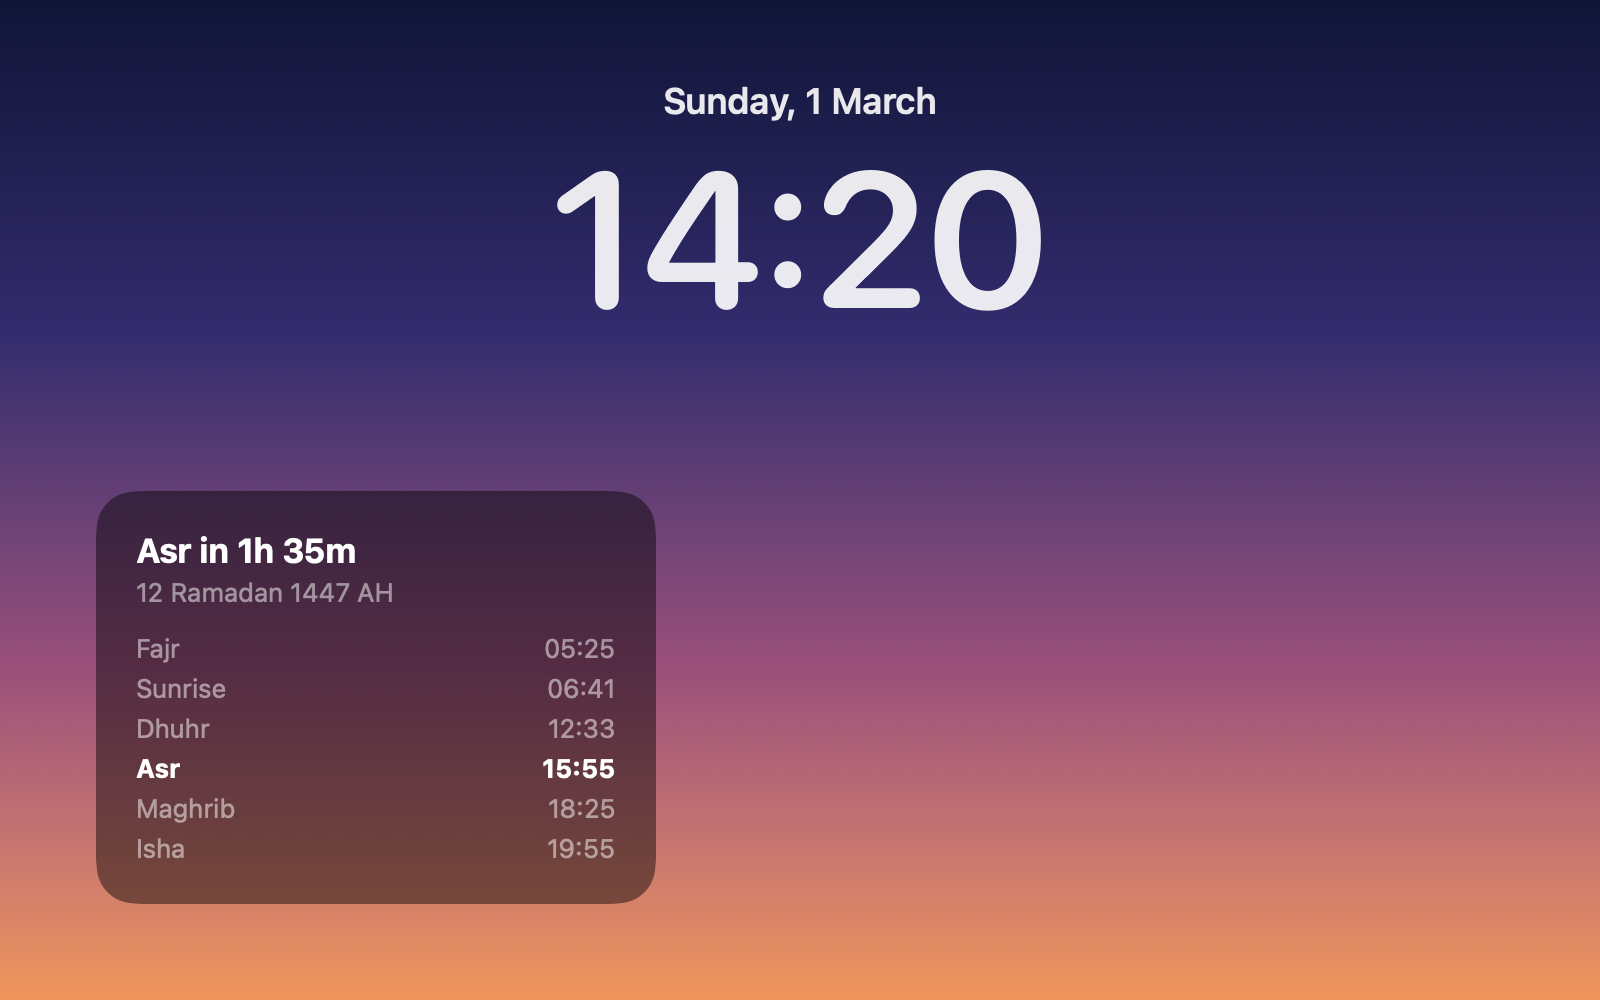
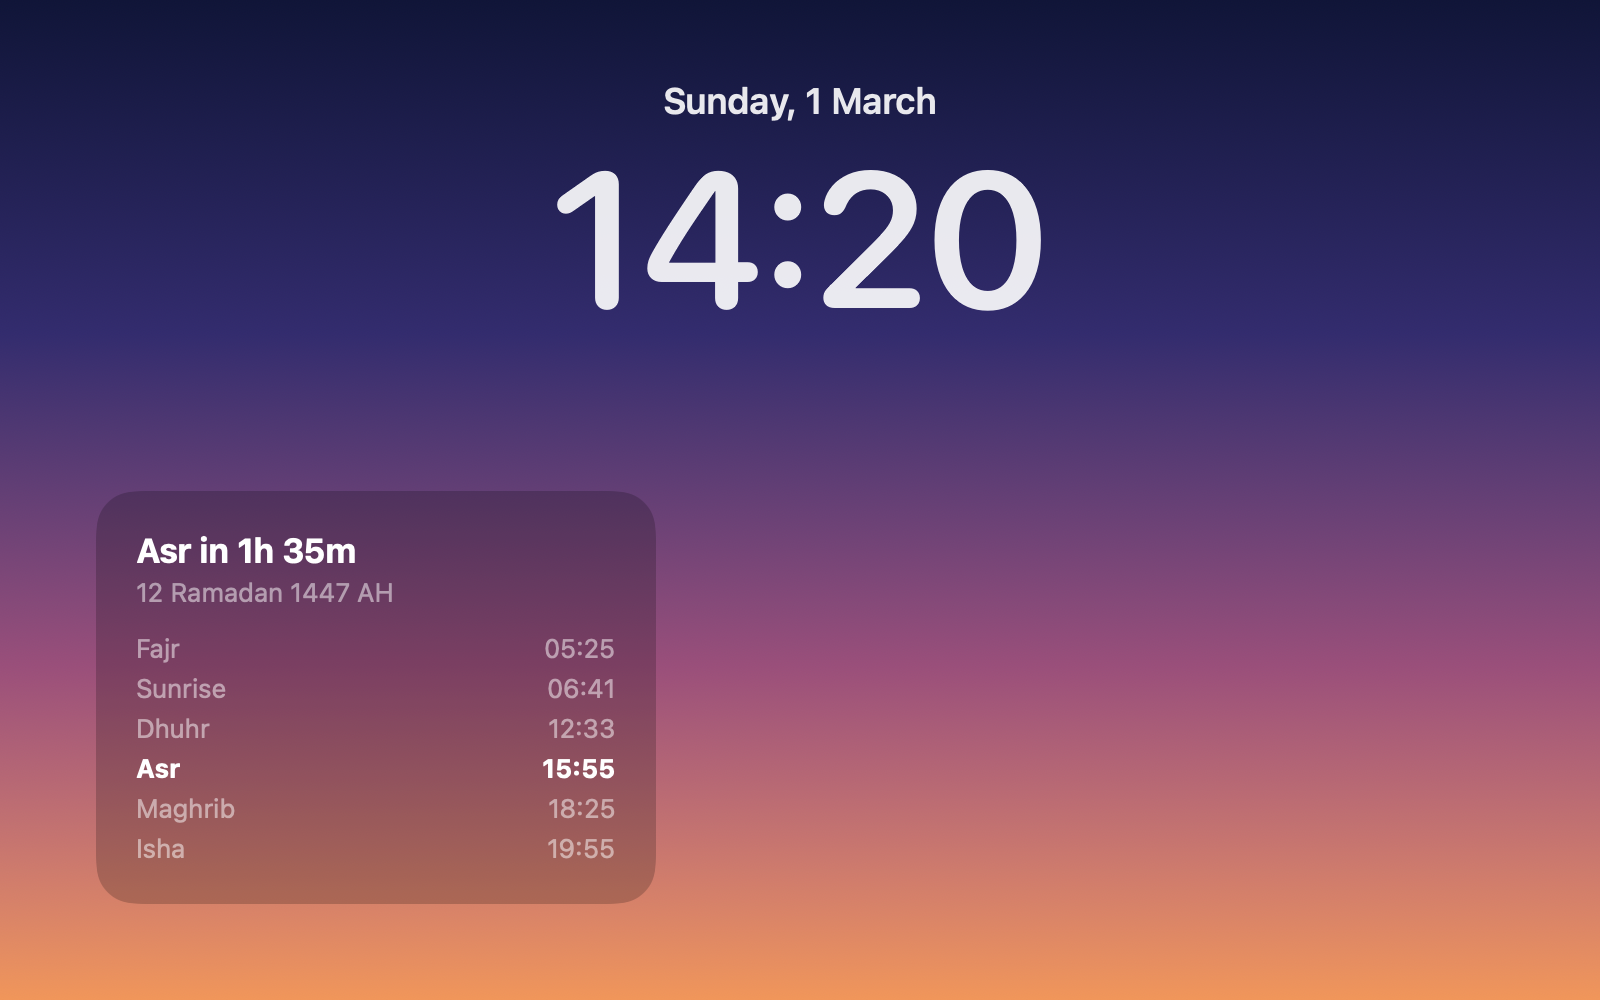
docs: prepare the 0.8.0 release
Move the Unreleased changes under 0.8.0 with a one-line summary, group
the Card tab's settings, and update the comparison links. The roadmap
moves v0.8 Widget options to Done and names 0.9.0 as the next release;
the adhan audio (#37), pausing media (#38) and #77 move to v0.9. The
README and website list the card options and the menu-bar countdown,
and the images are rendered again for the glass card, with a new one
for the compact style.

Changed region(s): [[0.0625, 0.465, 0.4375, 0.93]]

diff --git a/site/index.html b/site/index.html
@@ -85,6 +85,8 @@
         <li>The next prayer, with a live countdown, right on the Lock Screen.</li>
         <li>Your Mac's location, or a city of your choice in its own time zone.</li>
         <li>Today's times: Fajr, Sunrise, Dhuhr, Asr, Maghrib and Isha, with the Hijri date, your mosque's iqamah times and Jumu'ah on Fridays.</li>
+        <li>A card your way: frosted glass on macOS 26 and later, full or compact, larger text, in any corner of the Lock Screen.</li>
+        <li>A countdown in the menu bar, or the next prayer's time, or just the icon.</li>
         <li>Reminders at the prayers you choose, at the adhan or a few minutes before, and before the iqamah.</li>
         <li>Your choice of calculation method, including Umm al-Qura, ISNA and JAKIM, plus the Asr madhab and high-latitude rule.</li>
         <li>Lives in the menu bar, with no Dock icon, and can start at login.</li>

diff --git a/docs/ROADMAP.md b/docs/ROADMAP.md
@@ -73,15 +73,15 @@ Each milestone is a GitHub milestone, and each of its issues becomes one pull re
 | **v0.5 Identity** | Artwork tool · app icon and menu-bar symbol · DMG install window · README screenshots · website · Homebrew tap · release-notes fix · location kept current · JAKIM method |
 | **v0.6 Accurate times** | Settings window · per-prayer adjustments · choose a city · iqamah times · Jumu'ah · audit fixes: one tested time format, city search feedback |
 | **v0.7 Reminders** | Notifications at the adhan, before it and before the iqamah · audit fixes: region in city search results, a tested countdown order, no release without changelog notes |
+| **v0.8 Widget options** | Glass card · compact style · text size · any corner and margin · hide on Lock Screen · menu-bar countdown · VoiceOver labels · Settings tabs in the toolbar |
 
-v0.0–v0.4 were released as the **0.1.0** pre-release, v0.5 as **0.5.0**, v0.6 as **0.6.0** and v0.7 as **0.7.0**.
+v0.0–v0.4 were released as the **0.1.0** pre-release, v0.5 as **0.5.0**, v0.6 as **0.6.0**, v0.7 as **0.7.0** and v0.8 as **0.8.0**.
 
 ### Next
 
 | Milestone | Issues | Why in this order |
 |---|---|---|
-| **v0.8 Widget options** | Placement (#39) · compact card (#40) · glass style (#41) · hide on Lock Screen (#42) · menu-bar countdown (#43) · accessibility (#44) · moved from v0.7: adhan audio (#37), pause media (#38), and the tidy-ups for new contributors, location rule in one place (#77) and submenu helper (#79) | Visual options, best designed once the card's content (iqamah, Jumu'ah) has settled. The adhan audio waits for a recording with a clear licence, and pausing media builds on it. |
-| **v0.9 Islamic calendar** | Hijri adjustment (#32) · Sunnah times (#45) · forbidden times (#46) · Ramadan mode (#47) · upcoming Islamic dates (#48) | Depends on reminders (#36). The Hijri adjustment comes first, because Ramadan mode and Islamic dates use it. |
+| **v0.9 Islamic calendar** | Hijri adjustment (#32) · Sunnah times (#45) · forbidden times (#46) · Ramadan mode (#47) · upcoming Islamic dates (#48) · moved from v0.8: adhan audio (#37), pause media (#38), and the location-rule tidy-up for new contributors (#77) | Depends on reminders (#36). The Hijri adjustment comes first, because Ramadan mode and Islamic dates use it. |
 | **v0.10 Languages** | Localization with Arabic (#49) · more languages (#50) | Last, so translators work on settled text instead of chasing changes. |
 | **v1.0 Release** | Developer ID signing and notarization | Waiting on an Apple Developer account. Sparkle auto-updates follow it, because updates need a stable signing identity. |
 
@@ -91,7 +91,7 @@ v0.0–v0.4 were released as the **0.1.0** pre-release, v0.5 as **0.5.0**, v0.6 
 
 ## Releases
 
-- Semantic version tags (`v0.1.0`), with GitHub Releases notes drawn from [CHANGELOG.md](../CHANGELOG.md). Milestone vX.Y ships as vX.Y.0, so the next release is 0.8.0.
+- Semantic version tags (`v0.1.0`), with GitHub Releases notes drawn from [CHANGELOG.md](../CHANGELOG.md). Milestone vX.Y ships as vX.Y.0, so the next release is 0.9.0.
 - Pushing a tag runs `.github/workflows/release.yml`, which builds a universal DMG and publishes it as a GitHub Release. Pull requests that change the pipeline get a dry run that builds the DMG without publishing.
 - Until v1.0, releases are ad-hoc signed pre-releases: macOS asks users to approve the app in Privacy & Security the first time they open it.
 - The Developer ID certificate and notarization key will be stored in GitHub Secrets only, and are added at v1.0.

diff --git a/CHANGELOG.md b/CHANGELOG.md
@@ -6,15 +6,20 @@ The format is based on [Keep a Changelog](https://keepachangelog.com/en/1.1.0/),
 
 ## [Unreleased]
 
+## [0.8.0] - 2026-10-29
+
+Your card, your way: frosted glass, a compact style, any corner of the Lock Screen, larger text, and a countdown in the menu bar.
+
 ### Added
 
 - On macOS 26 and later, the card is frosted glass over the Lock Screen wallpaper, like system widgets. With Reduce Transparency or Increase Contrast on, it's a solid dark card instead.
+- A new **Card** tab in Settings:
+  - **Style:** the full card, or a compact one with only the next prayer's countdown and time, and the Hijri date.
+  - **Text size:** Standard, Large or Extra Large.
+  - **Position** and **Margin:** any corner of the Lock Screen, and how far from the edges.
 - **Show on Lock Screen** in the menu, on by default. Turn it off to keep only the menu-bar times.
-- A text size for the card, on the Card tab of Settings: Standard, Large or Extra Large.
-- VoiceOver reads each of the card's rows as one item, such as "Asr, 15:55, iqamah 16:15, next prayer", and the countdown in words.
-- Choose where the card sits on the Lock Screen, in any corner, and how far from the edges, on the Card tab of Settings.
-- A compact card style, on the new Card tab of Settings: only the next prayer's countdown and time, and the Hijri date.
 - **Menu Bar Shows** in the menu: the next prayer's time, a countdown like the card's ("Asr in 1h 12m"), or the icon only.
+- VoiceOver reads each of the card's rows as one item, such as "Asr, 15:55, iqamah 16:15, next prayer", and the countdown in words.
 
 ### Fixed
 
@@ -76,7 +81,8 @@ The first pre-release.
 - A Launch at Login option.
 - If a macOS update removes the private API the Lock Screen widget relies on, the app keeps working from the menu bar and says why the widget is missing.
 
-[Unreleased]: https://github.com/u-sm/imiqaat/compare/v0.7.0...HEAD
+[Unreleased]: https://github.com/u-sm/imiqaat/compare/v0.8.0...HEAD
+[0.8.0]: https://github.com/u-sm/imiqaat/compare/v0.7.0...v0.8.0
 [0.7.0]: https://github.com/u-sm/imiqaat/compare/v0.6.0...v0.7.0
 [0.6.0]: https://github.com/u-sm/imiqaat/compare/v0.5.0...v0.6.0
 [0.5.0]: https://github.com/u-sm/imiqaat/compare/v0.1.0...v0.5.0

diff --git a/README.md b/README.md
@@ -31,13 +31,15 @@
 - 🕌 **The next prayer**, with a live countdown, right on the Lock Screen.
 - 📅 **Today's times**: Fajr, Sunrise, Dhuhr, Asr, Maghrib and Isha, with your mosque's iqamah times if you add them, and Jumu'ah on Fridays.
 - 🔔 **Reminders** at the prayers you choose, at the adhan or a few minutes before, and before the iqamah.
+- 🪟 **A card your way**: frosted glass on macOS 26 and later, full or compact, larger text, in any corner of the Lock Screen, or hidden.
+- ⏱ **A countdown in the menu bar**, or the next prayer's time, or just the icon.
 - 🌙 **The Hijri date**, from the Umm al-Qura calendar.
 - 🧭 **Your choice of calculation method, Asr madhab and high-latitude rule.**
 - 📍 **Your location or a city.** Use the Mac's location, or choose a city and see its times in its own time zone.
 - 📴 **Works offline.** Times are calculated on your Mac, and iMiqaat never sends your location anywhere. City search, if you use it, sends what you type to Apple Maps.
 - 🎛 **Lives in the menu bar**, with no Dock icon, and can start at login.
 
-Coming next: widget styles, the adhan, Ramadan mode and Arabic. See the [roadmap](docs/ROADMAP.md).
+Coming next: the adhan, Ramadan mode and Islamic dates, and Arabic. See the [roadmap](docs/ROADMAP.md).
 
 ## How it works
 
